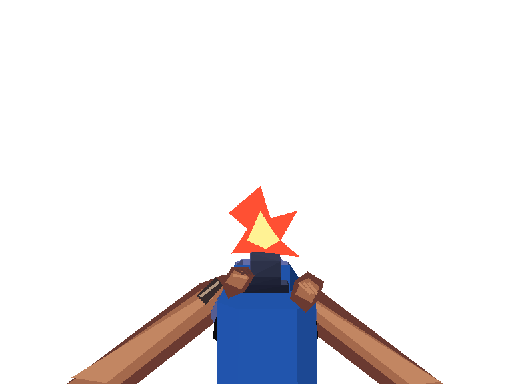
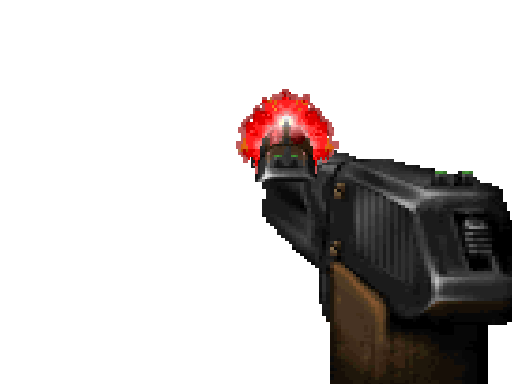
BLOOD//CIRCUIT V10: replace generated viewmodels with user-supplied classic sprites

diff --git a/blood-circuit/README.md b/blood-circuit/README.md
@@ -1,14 +1,14 @@
-# BLOOD//CIRCUIT - V9 Sprite Viewmodels
+# BLOOD//CIRCUIT - V10 Original Sprite Sheets
 
 Retro 3D arena with classic 2D first-person weapon/hand sprite overlay.
 
 ## Changes
 - Retired the skinned GLB arm viewmodel (and the async GLTF loader) from the render path.
-- Original weapon + hands frames in `assets/viewmodels/`.
+- Original-style weapon and hand frames extracted from the user-supplied pistol, shotgun, heavy-gun and Joblez hand sheets in `assets/viewmodels/`.
 - New `sprite-viewmodel.js` frame system for three weapons, muzzle flash, parry fists and frame-based weapon lowering.
 - Viewmodel is a transparent pixel-art canvas, separate from the WebGL arena, supporting bob, recoil, strafe tilt, slides and switching.
 - Existing combat mechanics, muzzle traces, coins, chests and progression remain unchanged.
-- All original sprites are based on the project's Kenney Blaster Kit 2.1 CC0 models, with newly drawn 2D hand shapes. Reference screenshots were not copied.
+- V10 uses direct crops from user-supplied reference sprite sheets, not the generated Kenney-based V9 art. Third-party source asset redistribution rights have not been verified. Confirm permissions or replace with licensed alternatives before a public commercial release.
 - No runtime remote textures or image CDN dependencies.
 
 ## Run

diff --git a/blood-circuit/ASSET_CREDITS.md b/blood-circuit/ASSET_CREDITS.md
@@ -17,3 +17,8 @@ procedural textures take over automatically. The game does **not** require
 external textures in order to function. No live API calls are needed.
 
 Texture URLs are openly declared in `arena-textures.js`.
+
+
+## V10 first-person art
+
+The `assets/viewmodels/*.png` sprites in this version are edited crops from the user-supplied reference sheets (pistol, shotgun, heavy gun and Joblez hands). They may incorporate third-party game artwork. Their original licenses have not been verified, and inclusion here does **not** imply a CC0 license. Secure distribution permission before a public or commercial release.
